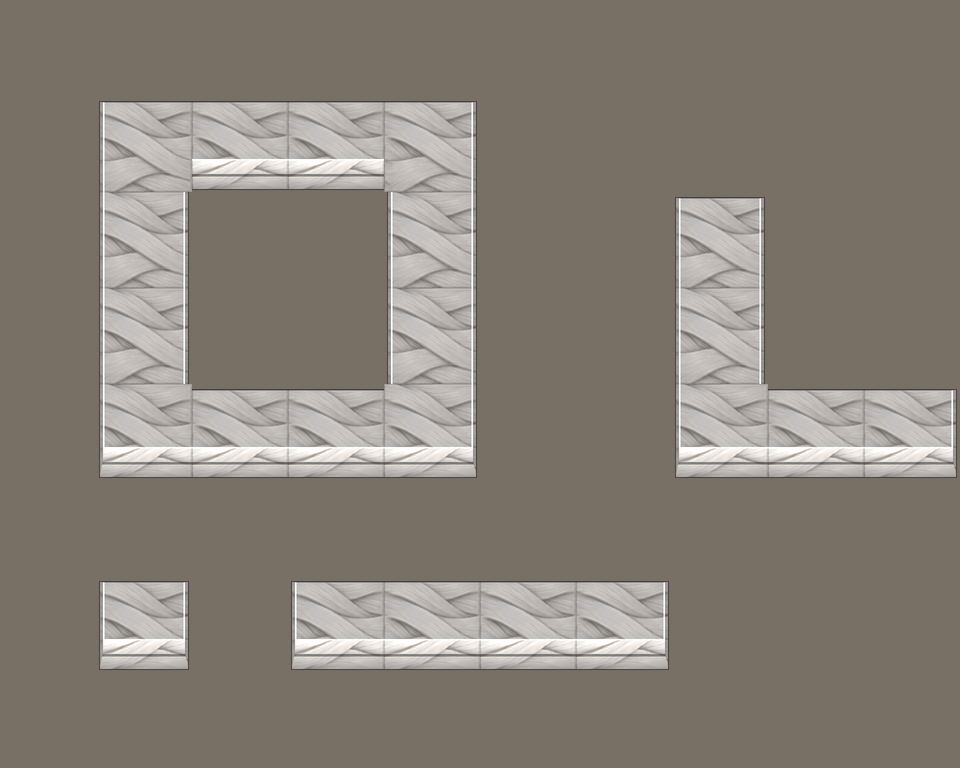
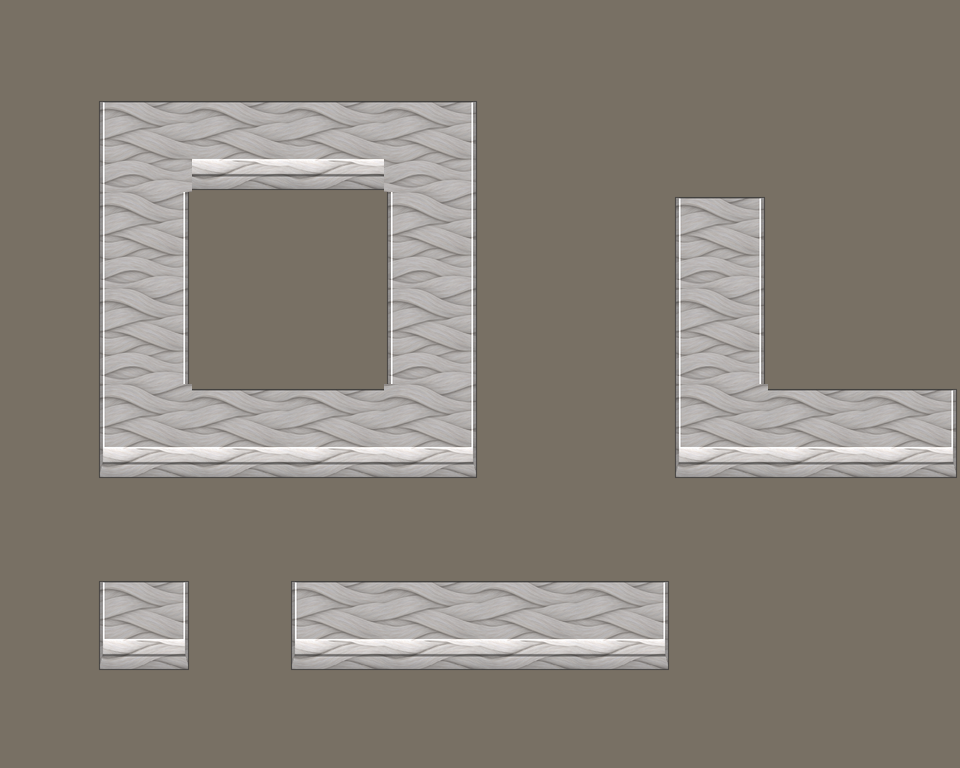
BIOME_SHIP_CONTRIBUTIONS_1: judge round 1 answered; patch check runs again; offline load PASS
Blue Desert row now states the ruled cold hold (ice water stock, cold wax, the rack); one heater
(Abyss/Rot rows trimmed); owner card in evidence. Delegated: art (spunstone atlas seam fix).

diff --git a/src/RimMandrake/Utils/ship_contributions.py b/src/RimMandrake/Utils/ship_contributions.py
@@ -459,38 +459,38 @@ def patches_touching(dn, parents=()):
     if _PATCHES is None:
         _PATCHES = [(p, p.read_text(encoding="utf-8", errors="replace")) for tier, mod in shipped_mod_dirs()
                     for p, rel in mod_files(mod, ".xml") if "Patches" in rel]
-    keys = [dn] + list(parents) + ["defName,", "defName ,", "defName,"]
+    keys = [dn] + list(parents)
     for p, t in _PATCHES:
-        if not any(k in t for k in keys[:1 + len(parents)]) and "(defName" not in t.replace(" ", ""):
+        if not any(k in t for k in keys) and "(defName" not in t.replace(" ", ""):
+            continue                                       # cheap prefilter: no name and no defName selector
+        for m in re.finditer(r"(contains|starts-with|ends-with)\(\s*defName\s*,\s*[\"']([^\"']*)[\"']", t):
+            fn, sub = m.group(1), m.group(2)
+            hit = (sub in dn if fn == "contains" else dn.startswith(sub) if fn == "starts-with"
+                   else dn.endswith(sub))
+            if not hit:
+                t = t.replace(m.group(0), "")                                  # a selector not matching dn
+        if not pat.search(t):
             continue
-            for m in re.finditer(r"(contains|starts-with|ends-with)\(\s*defName\s*,\s*[\"']([^\"']*)[\"']", t):
-                fn, sub = m.group(1), m.group(2)
-                hit = (sub in dn if fn == "contains" else dn.startswith(sub) if fn == "starts-with"
-                       else dn.endswith(sub))
-                if not hit:
-                    t = t.replace(m.group(0), "")                                  # a selector not matching dn
-            if not pat.search(t):
+        try:
+            root = ET.fromstring(t.encode("utf-8"))
+        except ET.ParseError:
+            out.append((str(p.relative_to(ROOT)), True))   # unreadable patch on a claimed def: fail safe
+            continue
+        hot = False
+        for op in root.iter():
+            xp = op.findtext("xpath") if isinstance(op.tag, str) else None
+            if not xp or not pat.search(xp):
                 continue
-            try:
-                root = ET.fromstring(t.encode("utf-8"))
-            except ET.ParseError:
-                out.append((str(p.relative_to(ROOT)), True))   # unreadable patch on a claimed def: fail safe
-                continue
-            hot = False
-            for op in root.iter():
-                xp = op.findtext("xpath") if isinstance(op.tag, str) else None
-                if not xp or not pat.search(xp):
-                    continue
-                tail = xp[pat.search(xp).end():]
-                value = op.find("value")
-                vtags = {e.tag for e in value.iter()} if value is not None else set()
-                cls = op.get("Class") or ""
-                if any(re.search(r"\b%s\b" % f, tail) for f in PLACEMENT_FIELDS) or any(
-                        f in vtags for f in PLACEMENT_FIELDS) or (
-                        ("Remove" in cls and tail.strip(" ]/") == "") or (
-                        "Attribute" in cls and (op.findtext("attribute") or "").strip() == "ParentName")):
-                    hot = True
-            out.append((str(p.relative_to(ROOT)), hot))
+            tail = xp[pat.search(xp).end():]
+            value = op.find("value")
+            vtags = {e.tag for e in value.iter()} if value is not None else set()
+            cls = op.get("Class") or ""
+            if any(re.search(r"\b%s\b" % f, tail) for f in PLACEMENT_FIELDS) or any(
+                    f in vtags for f in PLACEMENT_FIELDS) or (
+                    ("Remove" in cls and tail.strip(" ]/") == "") or (
+                    "Attribute" in cls and (op.findtext("attribute") or "").strip() == "ParentName")):
+                hot = True
+        out.append((str(p.relative_to(ROOT)), hot))
     return out
 
 

diff --git a/src/RimMandrake/Utils/selftest_ship_contributions.py b/src/RimMandrake/Utils/selftest_ship_contributions.py
@@ -53,6 +53,19 @@ def unit_checks():
     for item, want in (("RM_X", 1), ("RM_Y", 0), ("RM_Z", 1)):
         if len(list(sc._xml_source_hits(x, item))) != want:
             errs.append("synthetic source context %s: wanted %d hit(s)" % (item, want))
+    # sixth review: the patch check must actually run (a prefilter once disabled it silently)
+    real = sc.patches_touching("RM_SekkulaathTank")
+    if len(real) < 3 or any(hot for _, hot in real):
+        errs.append("patches_touching(RM_SekkulaathTank): wanted its 3 label/comp patches, none placement: %s" % real)
+    saved = sc._PATCHES
+    sc._PATCHES = [(sc.ROOT / "src/x/Patches/fake.xml",
+                    '<Patch><Operation Class="PatchOperationAdd"><xpath>Defs/ThingDef[defName="RM_FossilCase"]'
+                    '/placeWorkers</xpath><value><li>PlaceWorker_OnSteamGeyser</li></value></Operation></Patch>')]
+    if sc.patches_touching("RM_FossilCase") != [(str((sc.ROOT / "src/x/Patches/fake.xml").relative_to(sc.ROOT)), True)]:
+        errs.append("a synthetic placeWorkers patch on RM_FossilCase was not flagged as placement-relevant")
+    if sc.patches_touching("RM_PatternHull"):
+        errs.append("a patch on RM_FossilCase was attributed to RM_PatternHull")
+    sc._PATCHES = saved
     ix = sc.build_index(sc.find_data(None))
     if sc.obtainable(ix, "RM_ToxinSealant"):
         errs.append("RM_ToxinSealant: its machining-table recipe was not accepted: %s" % sc.obtainable(ix, "RM_ToxinSealant"))

diff --git a/infrastructure/state/items/BIOME_SHIP_CONTRIBUTIONS_1.md b/infrastructure/state/items/BIOME_SHIP_CONTRIBUTIONS_1.md
@@ -31,11 +31,21 @@ architect menu on the deck; "installed" = a minifiable thing the player acquires
 everything), not ruled by him; the four new builds of this pass are marked *new*. A fresh design judge (opus) read every
 row against the alternatives each biome ships (`whittle/biome_ship_contributions_1/evidence/design_judge.json`); its three
 changes are applied (Greentide's sealed floor dropped, the hexplate rebalanced, Terminal Biomes led by the sun-sphere).
+Distinctness pass (Whittle judge, 2026-11-11): three biomes gave a cabin heater, so the Abyss row keeps only its great
+bone and the Rot row only its drive core; the furnace-hide bank is the one heater. The two water machines stay, told
+apart in their rows (powered and buildable vs unpowered and unique).
+
+**Why agents picked rows on a design item.** The 2026-11-03 note routed this item's design to the Designer. The
+Conductor, who carries the owner's authority (`CONDUCTOR_AUTHORITY_DECIDE_NO_ASKING_MOM`, owner 2026-10-30), put it in
+a Whittle offline lane on 2026-11-11 (owner order ~19:10 PST: *"start other Whittle agents to work on offline items
+wherever they're needed"*), and agents decide design under `delegation_policy.md` §2 (owner 2026-10-22: *"Nearly
+everything including art."*). Every agent pick is marked *delegated*, logged `--why "delegated: design"`, judged by a
+fresh design judge, and carded to the owner for review (`whittle/biome_ship_contributions_1/evidence/owner_card.md`).
 
 | biome | ship contribution | defs | source |
 |---|---|---|---|
-| The Abyss | **the summ great bone**: set aboard, a summ egg hatched on the ship imprints on the crew; plus the fold lamp's warm air lane | `RM_SummGreatBone` `RM_FoldLamp` | Abyss mod; *delegated* |
-| Blue Desert | **the cold hold**: a blue-ice cold-sink rack keeps a hold cold through a blackout with no power | `RM_ColdSinkRack` | owner by card 2026-09-24 (`the_blue_desert.md` §7) |
+| The Abyss | **the summ great bone**: set aboard, a summ egg hatched on the ship imprints on the crew, so the ship can raise the Abyss's flyers | `RM_SummGreatBone` | Abyss mod (its own text: "set one aboard your gravship"); *delegated* |
+| Blue Desert | **the cold hold**: blue-ice blocks (RM_BlueIce) stowed as the ship's distilled-purity water stock, and cold wax (RM_ColdWax, the natives' gland and flora fuel, inert only while cold) carried as a chemfuel windfall, in a hold the **blue-ice cold rack** keeps cold with no power through a blackout; one cooling failure and the pantry is a bomb. The rack is the deck part; ice and wax are its cargo | `RM_ColdSinkRack` | owner by card 2026-09-24 (`the_blue_desert.md` §7, THE COLD HOLD) |
 | The Cauldron | **the hull liner rig**: one rig glazes the whole ship's skin against acid, from ground vexxith plate | `RM_HullLinerRig` | Cauldron mod; *delegated* |
 | The Contagion | **the ship-mounted cloud repulsor**: the Helix field device as a gravship hardpoint, bought or won, installed on substructure | `RM_CloudRepulsorShip` | `the_contagion.md` (devices ruled); Helix trader/quest owner by card 2026-10-15 |
 | The Cracked Lands | **the fossil case**: a whole fossil skeleton from the skeleton seams, cased for the bulkhead (beauty 14) | `RM_FossilCase` | *new*, *delegated*, from the cast doc's bulkhead fossil |
@@ -43,7 +53,7 @@ changes are applied (Greentide's sealed floor dropped, the hexplate rebalanced, 
 | Gelatinous Slime | **the archive vat**: grows a dead colonist back from the slime's last reading of them, anywhere the ship goes | `RM_ArchiveVat` | `GELATINOUSSLIME_ARCHIVE_RESURRECTION_1`; *delegated* |
 | Greentide | **the dry-air blower**: cools a cabin without dumping heat into any room, and holds back the wet at its threshold | `RM_DryAirBlower` | Greentide mod; *delegated* |
 | Lantern Deeps | **lanternstone aboard**: floor and wall that glow forever and need no lamp | `RM_LanternstoneFloorConstructed` `RM_BuiltLanternstoneWall` | LanternDeeps mod; *delegated* |
-| Leaning Scrub | **the wind vaporator**: combs a thin, reliable margin of water out of the passing wind | `RM_WindVaporator` | LeaningScrub mod; *delegated* |
+| Leaning Scrub | **the wind vaporator**: a powered, buildable fog-catch that combs a thin, reliable margin of water out of the passing wind, any number of them | `RM_WindVaporator` | LeaningScrub mod; *delegated* |
 | Long Shade | **the shade awning**: real shade on an open deck under the Direct Sun | `RM_LureAwning` | `long_shade_bedazzle_2026-09-27.md` §6 (shade awning); *delegated* |
 | The Miasma | **the decay cell**: power from rot, in a bed of delta loam, silt and salt | `RM_DecayCell` | Miasma mod; *delegated* |
 | Pyrelands | **the furnace-hide heat bank**: furnace-beast hide gives back banked sun, a heater with no fuel and no power | `RM_FurnaceHideBank` | *new*, *delegated* |
@@ -52,12 +62,12 @@ changes are applied (Greentide's sealed floor dropped, the hexplate rebalanced, 
 | Stillsand | **the precision-lens kit**: the lens-glass solar still and sun lance, fuel-free on an open deck (the earlier "ship lens array" row named a part that was never built; this is what ships) | `RM_SolarStill` `RM_SunLance` | `STILLSAND_GLASS_LENS_CHAIN_1` §11 (owner-typed lens chain) |
 | Terminal Biomes | **the sun-sphere**: a cultured ollumin that grows into its own small sun, lighting and growing crops with no power or lamp; and the **cryoponics vat**, the Chill's deep-bed plants raised anywhere | `RM_SunSphere` `RM_ChillCryoponicsVat` | TerminalBiomes mod; *delegated* |
 | The Forge | **spunstone hull and floatstone door**: airtight floatstone ship parts | `RM_SpunstoneHull` `RM_FloatstoneDoor` | owner by card 2026-10-03 (`FORGE_SPUNSTONE_SOURCES_1`) |
-| The Rot | **the swallowed drive core** (multiplies the ship's range) and **the living mat root** (a warm creeping deck mat) | `RM_SwallowedDriveCore` `RM_LivingMatRoot` | TheRot mod; *delegated* |
+| The Rot | **the swallowed drive core**: an older ship's drive coil cut out of a hwelgrue, installed as a grav-engine facility, multiplies the ship's total range | `RM_SwallowedDriveCore` | TheRot mod; *delegated* |
 | The Sump | **glasswalk** flooring, **gaslight lamps** and the **tar vault** larder | `RM_Glasswalk` `RM_GaslightLamp` `RM_TarVault` | owner 2026-09-24 (his own examples); `SUMP_WALKWAYS_1`, `SUMP_GASLIGHT_1`, `SUMP_TAR_VAULT_1` |
 | Warscar | **the aerosol screen** (a clean-air dome over the ship in any polluted biome) and the **glower shield panel** | `RM_AerosolScreen` `RM_GlowerShieldPanel` | `WARSCAR_AEROSOL_SCREEN_1` (owner turn 4, 2026-09-30) |
 | The Wastes | **the waste cask bay**: a shielded, powered rack that lets a ship carry waste casks safely | `RM_WasteCaskBay` | `wastes.md` (the waste run by gravship); *delegated* |
 | Webwork | **the traction lance**: a crewed tether emplacement that reels a target or a downed colonist in | `RM_TractionLance` | Webwork mod; *delegated* |
-| Weeping Stones | **the ancient condenser plant**: the oldest gorrask's air-water machine, installed on the ship | `RM_AncientCondenserPlant` | WeepingStones mod (its own text: "install it on a ship") |
+| Weeping Stones | **the ancient condenser plant**: the oldest gorrask's machine, one per world, cut from its shell; it weeps water with no power or fuel wherever it is installed (unlike the Leaning Scrub vaporator: unpowered, unique, a trophy) | `RM_AncientCondenserPlant` | WeepingStones mod (its own text: "install it on a ship") |
 
 ## spec
 

diff --git a/whittle/biome_ship_contributions_1/evidence/owner_card.md b/whittle/biome_ship_contributions_1/evidence/owner_card.md
@@ -1,0 +1,58 @@
+# Card for the owner: the ship-gift matrix (BIOME_SHIP_CONTRIBUTIONS_1)
+
+Written Wed Nov 11, 11:10 PM PST. Not blocking: the work stands as built until you answer. Delivered to the lane's owner-questions file
+(`D:\ClaudeWork\rimmandrake\whittle_claude\CLAUDE_STEVEDESKTOP_OFFLINE2\OWNER_QUESTIONS.md`) and the daily digest.
+
+## The matrix (read this first)
+
+Your 2026-09-24 ask: *"how can this biome uniquely add something to the ship? ... What can they take and improve their
+ships environment with?"* Each of the 24 biomes in Baroque Biomes now has one gift that can stand on a gravship deck
+and fly with it, checked against the game's own placement rules. "Your ruling" = you chose it; "picked by an agent" =
+chosen under your 2026-10-22 delegation and checked by a fresh design judge; "new" = built in this pass.
+
+- **The Abyss** (picked by an agent): the summ great bone: set aboard, a summ egg hatched on the ship imprints on the crew, so the ship can raise the Abyss's flyers
+- **Blue Desert** (your ruling): the cold hold: blue-ice blocks (RM_BlueIce) stowed as the ship's distilled-purity water stock, and cold wax (RM_ColdWax, the natives' gland and flora fuel, inert only while cold) carried as a chemfuel windfall, in a hold the blue-ice cold rack keeps cold with no power through a blackout; one cooling failure and the pantry is a bomb. The rack is the deck part; ice and wax are its cargo
+- **The Cauldron** (picked by an agent): the hull liner rig: one rig glazes the whole ship's skin against acid, from ground vexxith plate
+- **The Contagion** (your ruling): the ship-mounted cloud repulsor: the Helix field device as a gravship hardpoint, bought or won, installed on substructure
+- **The Cracked Lands** (new): the fossil case: a whole fossil skeleton from the skeleton seams, cased for the bulkhead (beauty 14)
+- **Fever Wood** (picked by an agent): the sekkulaath tank: the swamp's captive producer carried as ship stock
+- **Gelatinous Slime** (picked by an agent): the archive vat: grows a dead colonist back from the slime's last reading of them, anywhere the ship goes
+- **Greentide** (picked by an agent): the dry-air blower: cools a cabin without dumping heat into any room, and holds back the wet at its threshold
+- **Lantern Deeps** (picked by an agent): lanternstone aboard: floor and wall that glow forever and need no lamp
+- **Leaning Scrub** (picked by an agent): the wind vaporator: a powered, buildable fog-catch that combs a thin, reliable margin of water out of the passing wind, any number of them
+- **Long Shade** (picked by an agent): the shade awning: real shade on an open deck under the Direct Sun
+- **The Miasma** (picked by an agent): the decay cell: power from rot, in a bed of delta loam, silt and salt
+- **Pyrelands** (new): the furnace-hide heat bank: furnace-beast hide gives back banked sun, a heater with no fuel and no power
+- **The Rust Cathedral** (new): pattern hull: hull seeded with live pattern metal that mends itself (120 HP a day)
+- **The Sleeping Ice** (new): tellurox hexplate: a deck floor of the tellurox's permanent shell plates
+- **Stillsand** (your ruling): the precision-lens kit: the lens-glass solar still and sun lance, fuel-free on an open deck (the earlier "ship lens array" row named a part that was never built; this is what ships)
+- **Terminal Biomes** (picked by an agent): the sun-sphere: a cultured ollumin that grows into its own small sun, lighting and growing crops with no power or lamp; and the cryoponics vat, the Chill's deep-bed plants raised anywhere
+- **The Forge** (your ruling): spunstone hull and floatstone door: airtight floatstone ship parts
+- **The Rot** (picked by an agent): the swallowed drive core: an older ship's drive coil cut out of a hwelgrue, installed as a grav-engine facility, multiplies the ship's total range
+- **The Sump** (your ruling): glasswalk flooring, gaslight lamps and the tar vault larder
+- **Warscar** (your ruling): the aerosol screen (a clean-air dome over the ship in any polluted biome) and the glower shield panel
+- **The Wastes** (picked by an agent): the waste cask bay: a shielded, powered rack that lets a ship carry waste casks safely
+- **Webwork** (picked by an agent): the traction lance: a crewed tether emplacement that reels a target or a downed colonist in
+- **Weeping Stones** (your ruling): the ancient condenser plant: the oldest gorrask's machine, one per world, cut from its shell; it weeps water with no power or fuel wherever it is installed (unlike the Leaning Scrub vaporator: unpowered, unique, a trophy)
+
+After you read that, are you ready for a question card?
+
+## The card
+
+Wed Nov 11, 11:10 PM PST
+
+Do these 24 ship gifts stand, one per biome?
+
+1. **Keep the matrix as it is** <- recommended - every biome has a distinct, buildable gift and a judge already
+   rebalanced it. Why: lets the ship pass close and the gifts get their first live run. Costs: nothing now; any row you
+   later dislike is one small build round.
+2. **Swap named rows for another thing that biome already ships** - why: you prefer a different existing building
+   (each biome's alternatives are listed in `D:\Luke\dev\RimMandrake\whittle\biome_ship_contributions_1\evidence\deck_inventory.txt`).
+   Buys: your taste on those rows at almost no build cost. Costs: a rerun of the check and a mirror sync.
+3. **Redesign named gifts from scratch** - why: a row's gift feels thin or off-fiction (likely candidates: the four new
+   ones, or Webwork's tether lance). Buys: a gift worth landing for. Costs: one design-and-build round per row, plus art.
+4. **Hold the matrix for the per-biome Designer sittings** - why: you want each gift argued out with that biome's
+   concept tree, as the 2026-11-03 note intended. Buys: gifts that fit each biome's whole design. Costs: the gifts stay
+   provisional until every biome has had its sitting.
+
+(Type any other answer.)

diff --git a/whittle/biome_ship_contributions_1/evidence/art/verdict_spunstone_r2.md b/whittle/biome_ship_contributions_1/evidence/art/verdict_spunstone_r2.md
@@ -1,0 +1,19 @@
+VERDICT: KEEP
+
+Subject: RM_SpunstoneHull (TheForge), linked atlas S/final/RM_SpunstoneHull_r2.png (1024x1024 RGBA, 4x4, cell 256).
+Judge: fresh blind judge (claude-opus-5-5), brief design/RimMandrake/art_judge_brief.md. Offline; images viewed: sim_sp2.png, sim_sp2_crop.png, sim_sp2_run.png, the atlas on a ground colour, old 128 px ref, RM_PatternHull sibling atlas.
+
+The fix that was asked for:
+- No dark seam. In the 4-cell straight run (sim_sp2_run.png) the strands carry straight across every join. I measured mean luminance per column over the wall body (rows 40-190): at the joins (x~294, 582, 870) the dip is 0.6 levels out of a mean of 172.9, too small to see. Nothing is visible by eye either.
+- Strands cross cell edges. Each braid band carries on into the next cell and the run reads as one woven surface.
+- Repetition: the weave still repeats once per cell (period = cell width). Every linked texture repeats like this. Because it is now continuous, it reads as a regular woven pattern, not as stamped tiles. That is acceptable.
+
+In its game context:
+- Ring, L, lone block and run all read as solid wall mass. The front (south) face band shows only where the wall has no south link, and the inner corners and the L elbow join cleanly.
+- B1/B1a: painterly material, no drawn dark keyline. The thin light rims on the open sides are highlights, not outlines.
+- B4: reads as pearl-white spun floatstone, the same material as the original 128 px ref (spunstone_old_ref.png).
+- B3: same atlas layout and face-band convention as the sibling RM_PatternHull. The palette differs because the material differs (B5).
+- D4: real alpha in the gutters, no backdrop.
+- B2 (advisory): at play zoom the light body stands clearly apart from the brown-grey ground, so it is not mud.
+
+Minor, not a REDO reason: the braid is horizontal on vertical runs too (ring sides, L upright). It looks fine as a texture. A future pass could turn it to follow vertical runs.

diff --git a/whittle/biome_ship_contributions_1/evidence/README.md b/whittle/biome_ship_contributions_1/evidence/README.md
@@ -11,7 +11,11 @@ Rerun the check yourself (offline, ~20 s): `python3 src/RimMandrake/Utils/ship_c
 | `deck_inventory.txt` | every player-placeable def each biome mod ships, judged DECK or site-bound, with costs and sources |
 | `selftest_ship_contributions.txt` | the checker's selftest: unit checks on real data + 11 mutated lists that must each fail |
 | `lints.txt` | the per-mod def lints for the four mods given new defs, Contagion's lint, and the compose collision sweeps |
+| `effective_def_lint.txt` | offline load check: the composed Baroque Biomes built from this clone (new defs included), linted in the game's effective def tree (patches applied, inheritance resolved) on a minimal mod list: VERDICT PASS |
+| `owner_card.md` | the matrix as a card to the owner (also in the lane's owner-questions file); not answered yet |
+| `code_review.md` | the fresh code-review rounds on the checker and what each changed |
 | `design_judge.json` | a fresh design judge's KEEP/CHANGE per row (its three changes are applied in the list) |
 | `art/` | the five new textures, ring/L/straight renders of both hull atlases, the floor tiled 2x2, the art judge's verdict |
 
 Live play was not run (this lane has no game): nothing here shows a gift placed, flown or used in a running game.
+The offline load check reads defs and patches as the game does but runs no C#.

diff --git a/whittle/biome_ship_contributions_1/evidence/code_review.md b/whittle/biome_ship_contributions_1/evidence/code_review.md
@@ -8,7 +8,10 @@
 | 4 | an EXEMPT row could borrow its gift's owner date (reproduced false PASS); ancestor-targeted patches unseen | fixed (citation must sit in the EXEMPT text); ancestor `@Name`/`@ParentName` and contains/starts-with/ends-with selectors matched |
 | 5 | wildcard xpath selectors, ParentName attribute rewrites | cheap styles fixed; the rest is a stated limit (xpath is pattern-matched, not evaluated; the patched tree is effective_def_lint.py's job) |
 
+| 6 | the caching edit indented the patch check under a `continue`, so it never ran (no wrong verdict today: the 4 patches it should report are label/comp edits) | dedented; selftest now proves the check runs on real patches and flags a synthetic placeWorkers patch |
+| 7 | see the result appended below | |
+
 Real-data effects found along the way: `RM_CloudRepulsorShip` had no source at all (fixed in the Helix trader);
 `RM_SunSphere`'s seed fuel is fished (Odyssey `fishTypes`), which the checker now reads. Each review's fixes are covered
 by the selftest (`selftest_ship_contributions.txt`: unit checks on real data and synthetic XML, 12 mutated lists).
-The files are not marked CLEAN: round 5's remaining fixes have not had a review of their own.
+

diff --git a/infrastructure/state/lessons/20261112T072006Z-CLAUDE_STEVEDESKTOP_OFFLINE2-stevedesktop-edl-needs-rm-steamapps.md b/infrastructure/state/lessons/20261112T072006Z-CLAUDE_STEVEDESKTOP_OFFLINE2-stevedesktop-edl-needs-rm-steamapps.md
@@ -1,0 +1,3 @@
+On SteveDesktop a helper's shell may lack RM_STEAMAPPS, so game_paths falls back to C:\Program Files (x86)\Steam and effective_def_lint.py reports the workshop/Data 'absent' (a helper then wrote 'this machine has none' into evidence: false; the game and 64 workshop mods are on D:\SteamLibrary). Set RM_STEAMAPPS=/mnt/d/SteamLibrary/steamapps; lxml for python3 is in D:\ClaudeWork\rimmandrake\whittle_claude\CLAUDE_STEVEDESKTOP_OFFLINE6\pylib. The FULL list still cannot be built there (64 of ~316 mods); lint a minimal list (Harmony, Core+DLCs, the mod and its deps) with a packageId=<folder> override instead.
+item: BIOME_SHIP_CONTRIBUTIONS_1
+home: infrastructure/state/facts/instrument_traps.md
